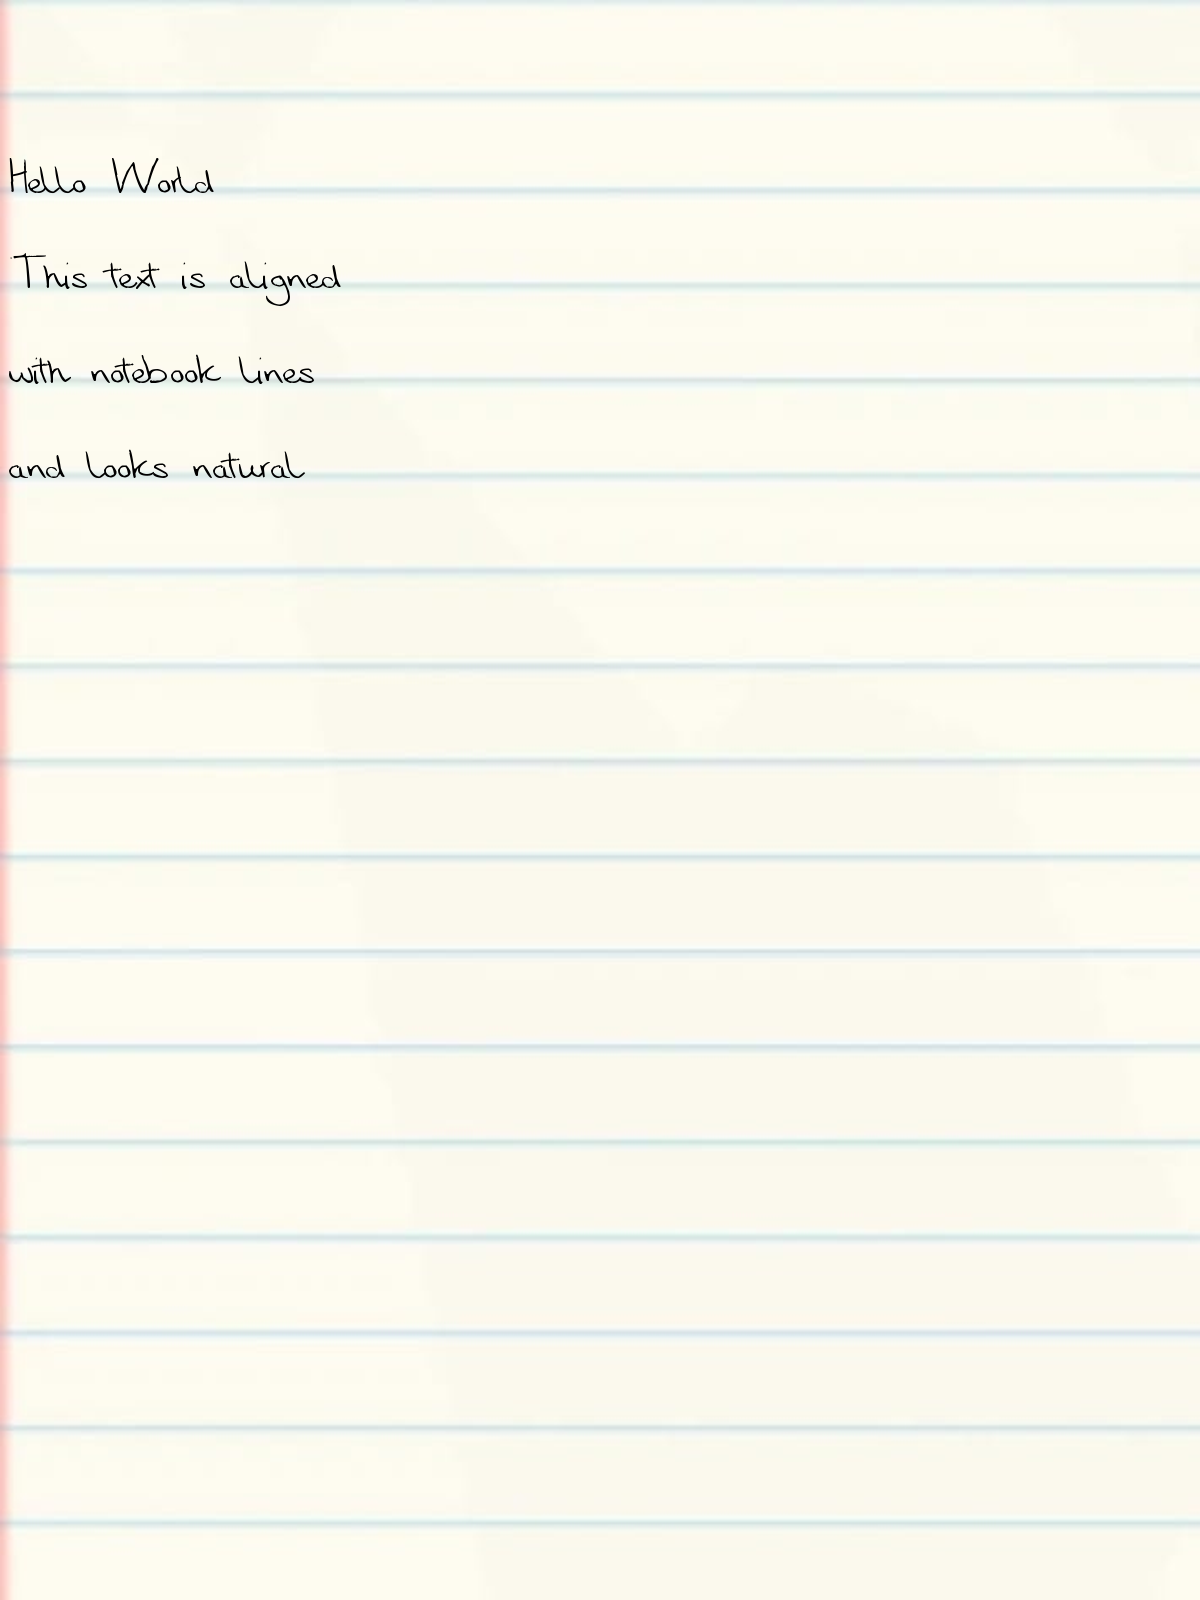
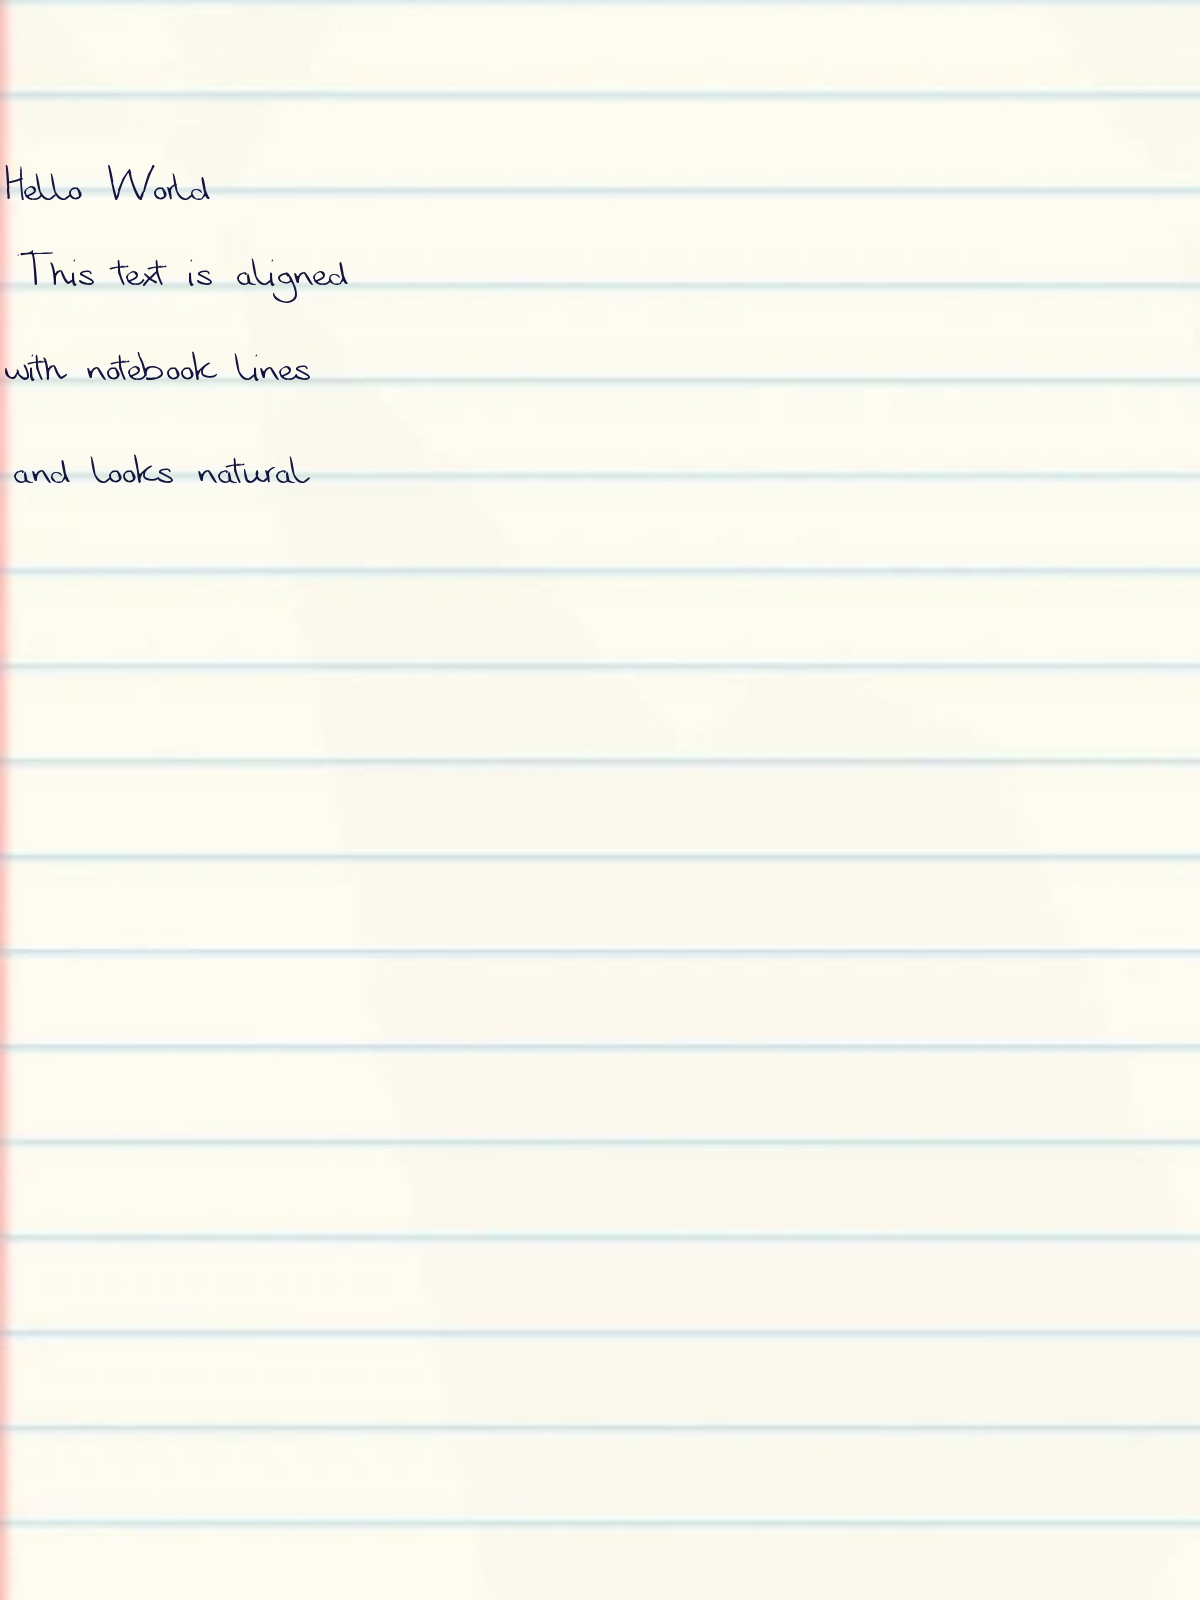
add random distributationn while writing to make more human like

diff --git a/main.py b/main.py
@@ -1,4 +1,9 @@
 from PIL import Image ,ImageDraw,ImageFont,ImageFilter
+import random
+
+X_JITTER = 7    # left-right pixels
+Y_JITTER = 7    # up-down pixels
+
 
 background = Image.open("background/background.jpeg").convert("RGB")
 
@@ -17,15 +22,30 @@ and looks natural"""
 
 lines = text.split("\n")
 
+
 # Starting position (margin)
 
 x, y = 10, 150 # the x and y where written line is start
 line_gap = 95  # the margin between lines
 
 
-for line in lines:    # how the text input is printing 
-    draw.text((x, y), line, fill=(0, 0, 0), font=font)
+# for line in lines:    # how the text input is printing 
+#     draw.text((x, y), line, fill=(20, 20, 60), font=font)
+#     y += line_gap
+
+for line in lines:
+    x_offset = random.randint(-X_JITTER, X_JITTER)
+    y_offset = random.randint(-Y_JITTER, Y_JITTER)            # this for loop add human error while writing like writing under the line over the line etc
+
+    draw.text(
+        (x + x_offset, y + y_offset),
+        line,
+        fill=(20, 20, 60),  # dark blue ink
+        font=font
+    )
+
     y += line_gap
+
 
 background.save("output.png")  # the output img is saved 
 
